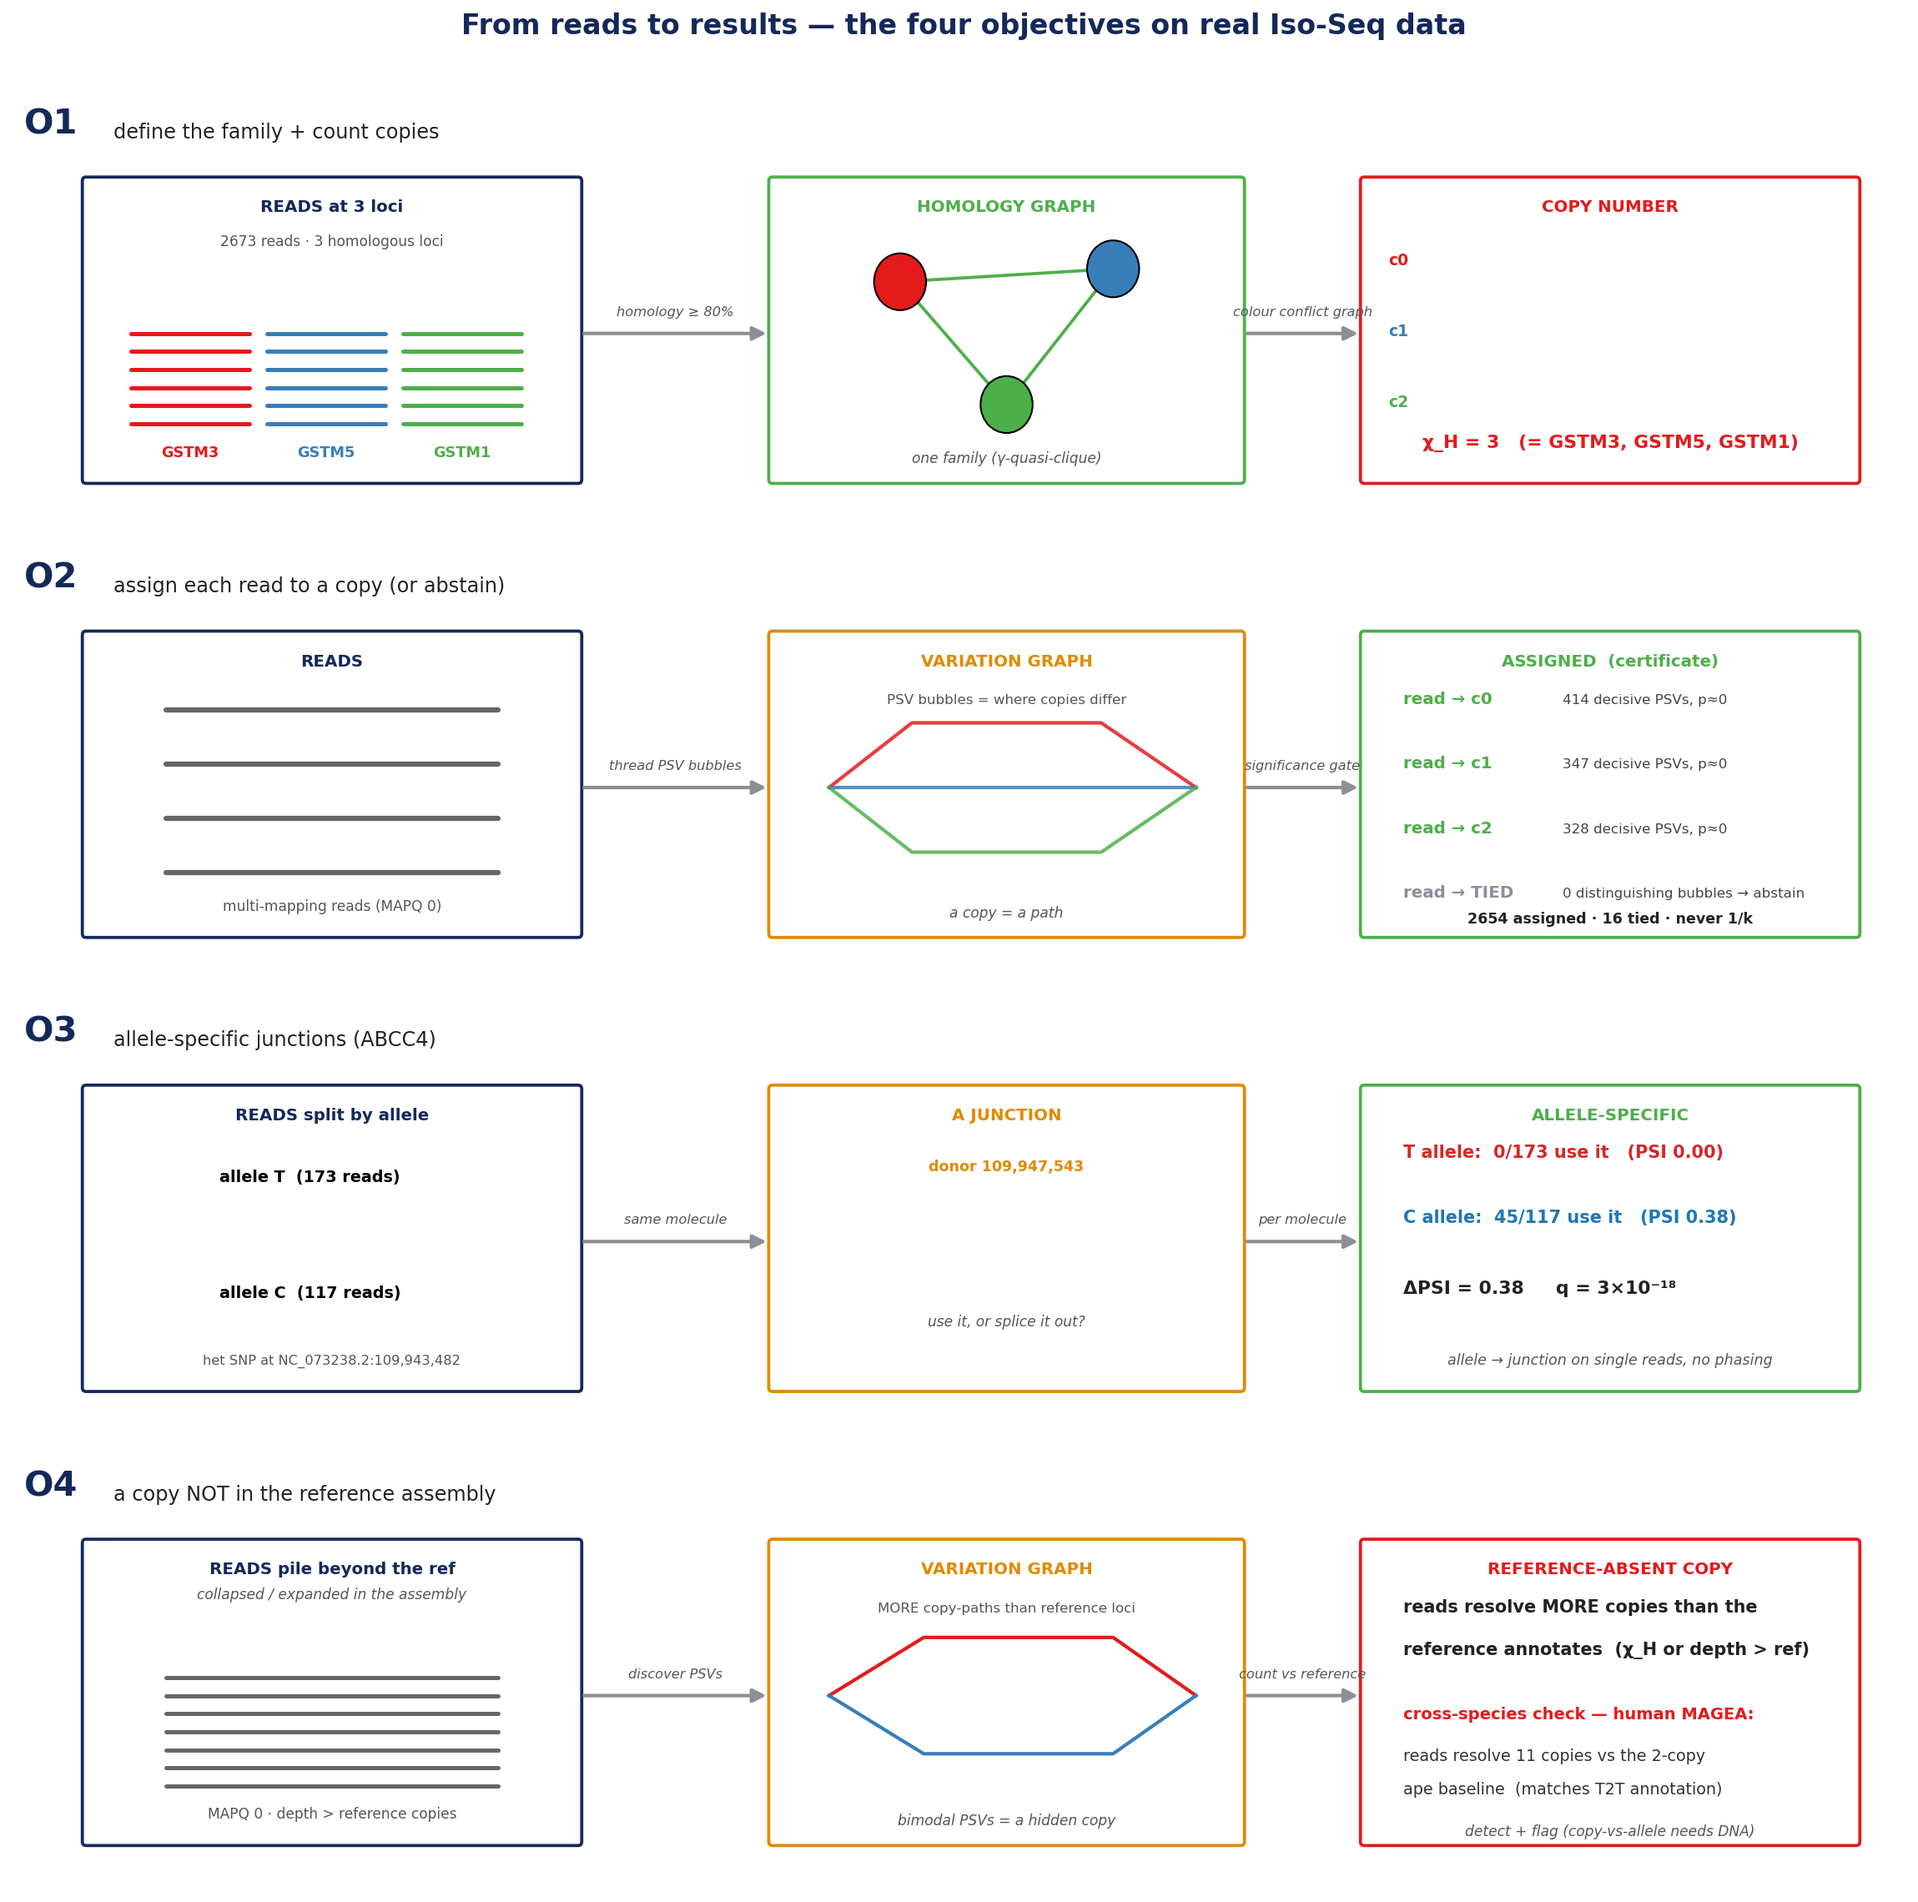
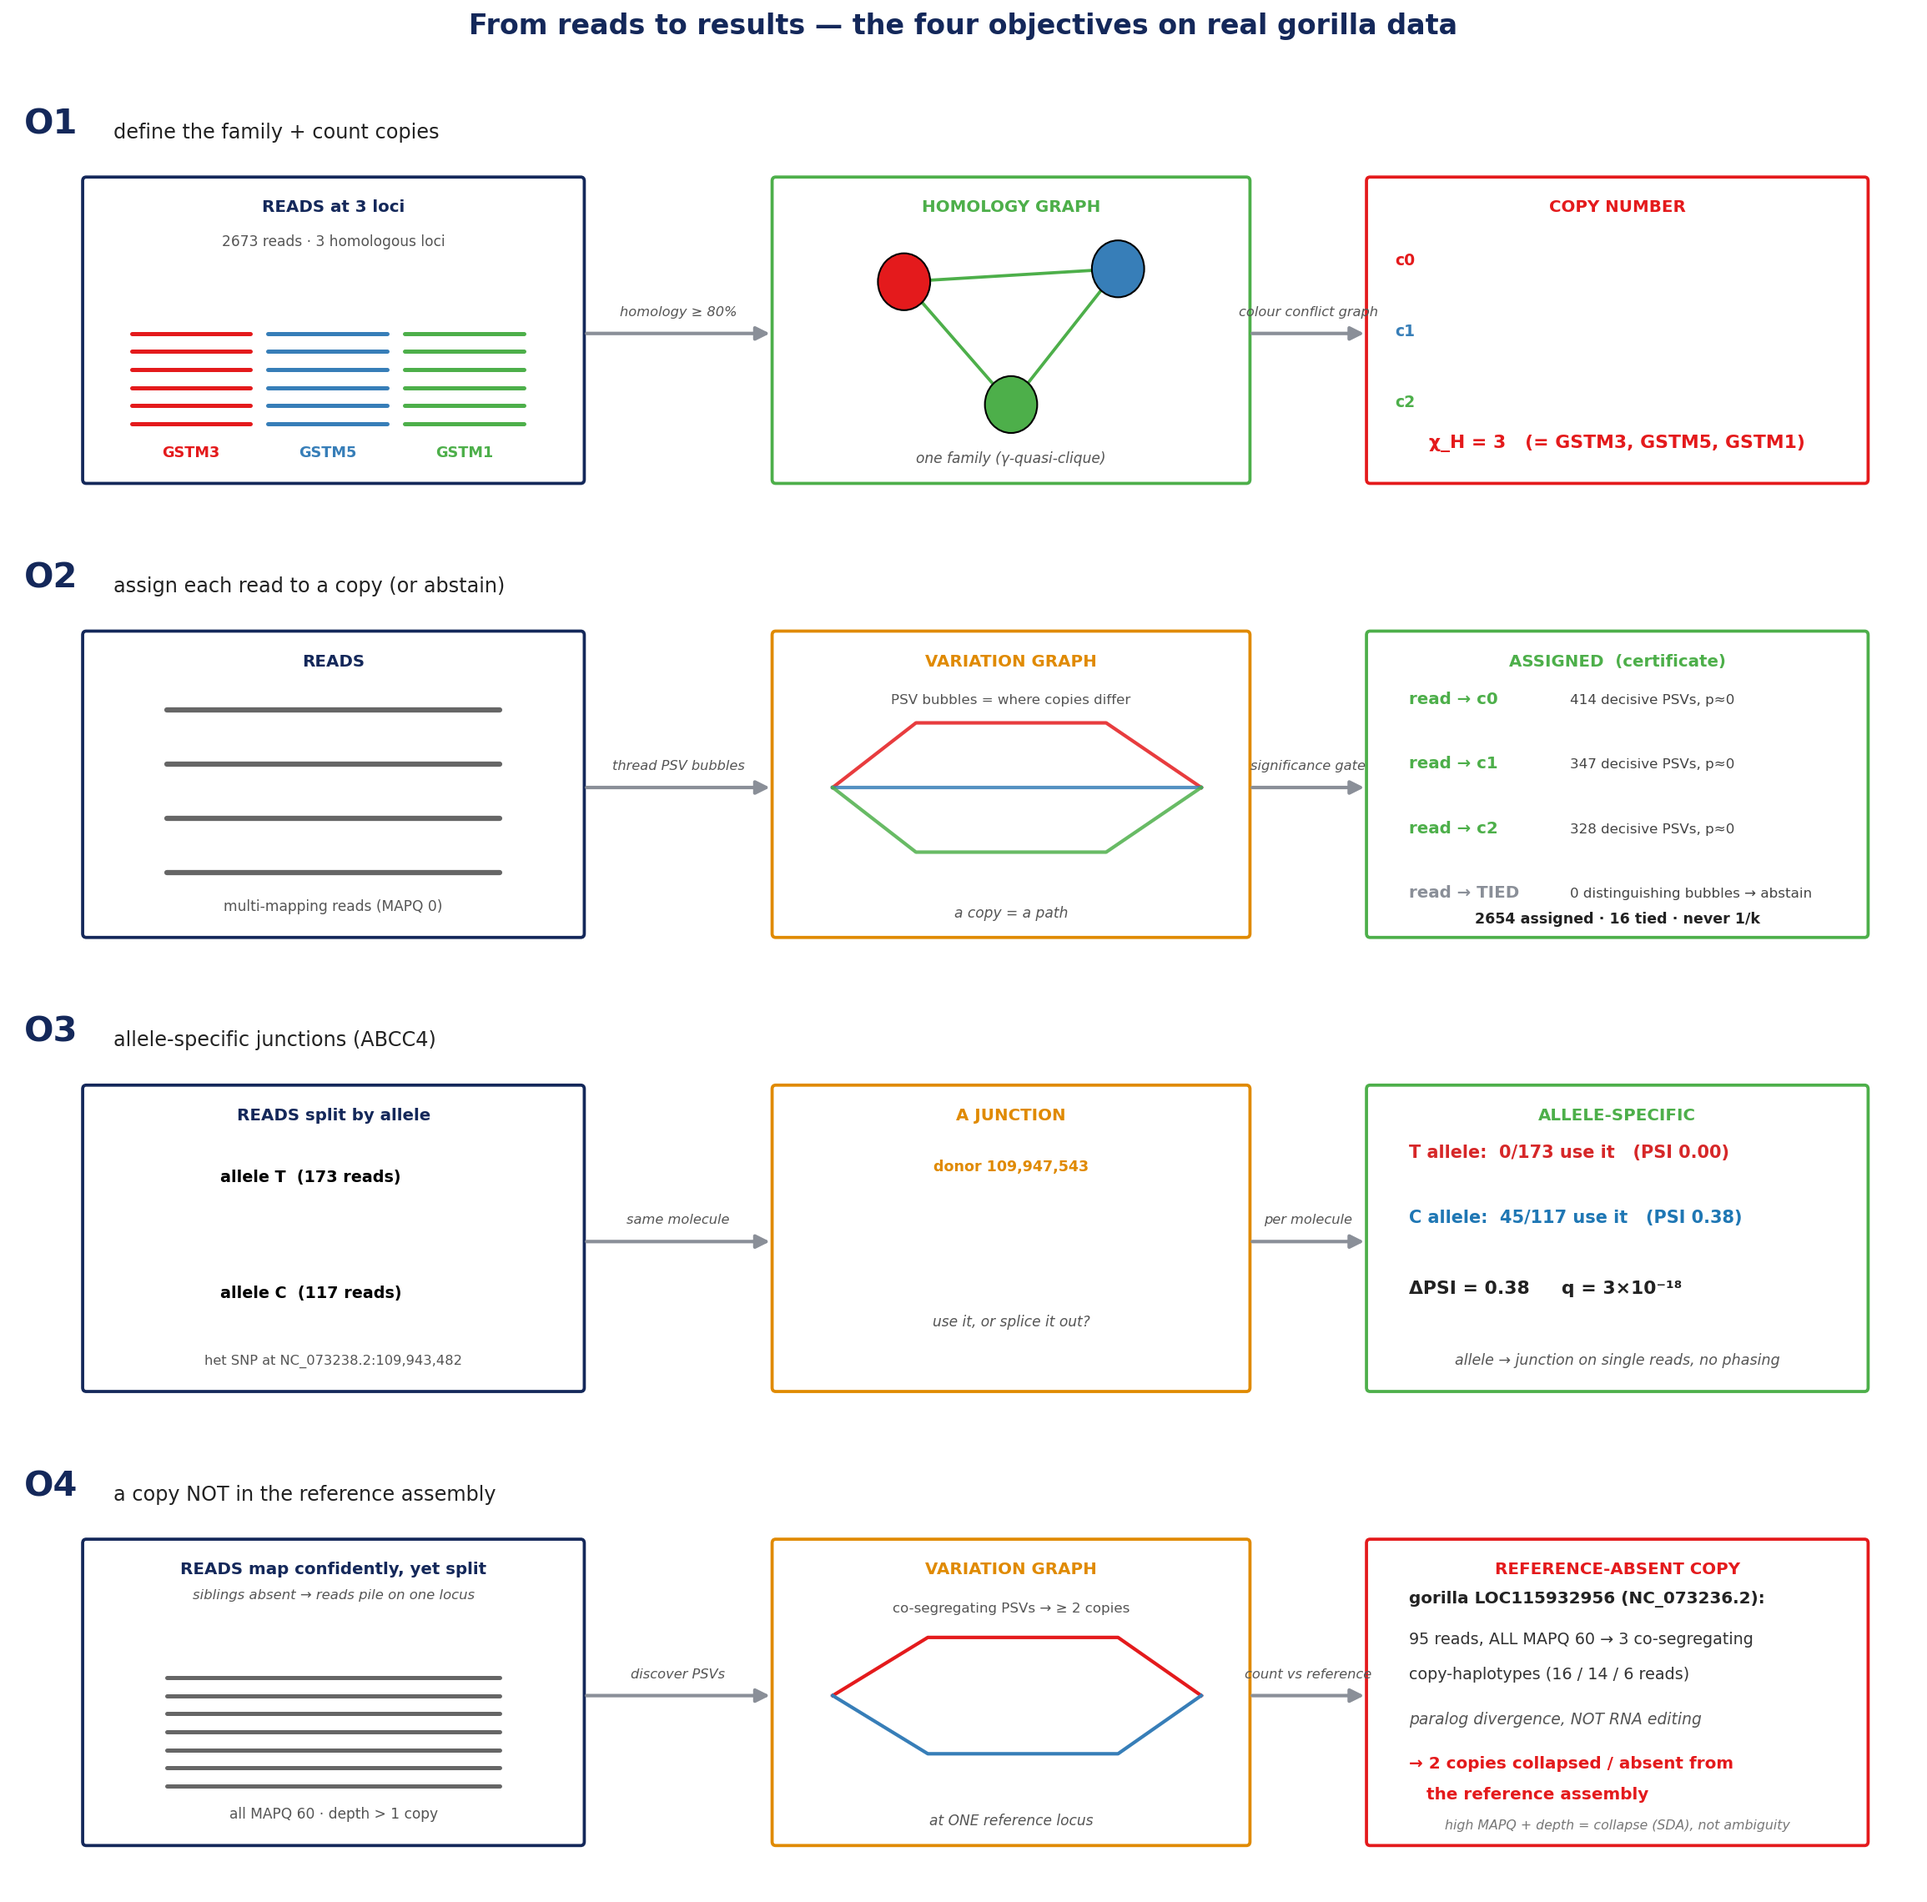
bench: O4 now a real within-gorilla reference-absent copy (LOC115932956)
Replace the cross-species-only O4 panel with a native gorilla example from
the hidden-collapse catalog (bench/hidden_collapse_hits.tsv, 306 hits):
NC_073236.2:139,047,584-139,177,611 (LOC115932956) — 95 reads ALL at MAPQ 60
yet splitting into 3 co-segregating copy-haplotypes (16/14/6) across 46
co-segregating PSV columns, paralog-divergence base spectrum (not RNA editing)
=> 2 copies collapsed/absent from the assembly. Also corrects the earlier
"MAPQ 0" framing: a reference-absent copy is a HIGH-MAPQ depth excess (SDA
signal), not MAPQ-0 ambiguity. Cross-species MAGEA kept as corroboration.
Reproduce: hidden_collapse_evidence.py --region NC_073236.2:139047584-139177611

Claude-Session: https://claude.ai/code/session_01RsF6nRZF2NWbpa4zQ83idT

diff --git a/bench/make_objectives_flow.py b/bench/make_objectives_flow.py
@@ -154,10 +154,10 @@ def build():
     ax = axes[3]
     ax.text(0.1, 3.05, "O4", fontsize=20, weight="bold", color=NAVY)
     ax.text(0.85, 3.06, "a copy NOT in the reference assembly", fontsize=11.5, color=DARK, va="center")
-    stage(ax, XA, 0.35, WA, 2.35, "READS pile beyond the ref", NAVY)
+    stage(ax, XA, 0.35, WA, 2.35, "READS map confidently, yet split", NAVY)
     pileup(ax, XA + 2.1, 0.8, 7, "#666", w=1.4)
-    ax.text(XA + 2.1, 0.55, "MAPQ 0 · depth > reference copies", ha="center", fontsize=8.2, color="#555")
-    ax.text(XA + 2.1, 2.25, "collapsed / expanded in the assembly", ha="center", fontsize=8.2, color="#555", style="italic")
+    ax.text(XA + 2.1, 0.55, "all MAPQ 60 · depth > 1 copy", ha="center", fontsize=8.2, color="#555")
+    ax.text(XA + 2.1, 2.25, "siblings absent → reads pile on one locus", ha="center", fontsize=7.9, color="#555", style="italic")
     arrow(ax, XA + WA, XB, 1.5, "discover PSVs")
     stage(ax, XB, 0.35, WB, 2.35, "VARIATION GRAPH", ORANGE)
     sy = 1.5; sx0 = XB + 0.5; sx1 = XB + 3.6
@@ -167,18 +167,19 @@ def build():
         ax.add_patch(Circle((x, sy - 0.45), 0.13, fc=BLUE, ec="k", lw=0.6))
     ax.plot([sx0, XB + 1.3, XB + 2.1, XB + 2.9, sx1], [sy, sy + .45, sy + .45, sy + .45, sy], color=RED, lw=2)
     ax.plot([sx0, XB + 1.3, XB + 2.1, XB + 2.9, sx1], [sy, sy - .45, sy - .45, sy - .45, sy], color=BLUE, lw=2)
-    ax.text(XB + WB / 2, 2.15, "MORE copy-paths than reference loci", ha="center", fontsize=8, color="#555")
-    ax.text(XB + WB / 2, 0.5, "bimodal PSVs = a hidden copy", ha="center", fontsize=8.2, style="italic", color="#555")
+    ax.text(XB + WB / 2, 2.15, "co-segregating PSVs → ≥ 2 copies", ha="center", fontsize=8, color="#555")
+    ax.text(XB + WB / 2, 0.5, "at ONE reference locus", ha="center", fontsize=8.2, style="italic", color="#555")
     arrow(ax, XB + WB, XC, 1.5, "count vs reference")
     stage(ax, XC, 0.35, WC, 2.35, "REFERENCE-ABSENT COPY", RED)
-    ax.text(XC + 0.35, 2.15, "reads resolve MORE copies than the", fontsize=10, weight="bold", color=DARK)
-    ax.text(XC + 0.35, 1.82, "reference annotates  (χ_H or depth > ref)", fontsize=10, weight="bold", color=DARK)
-    ax.text(XC + 0.35, 1.32, "cross-species check — human MAGEA:", fontsize=9.4, weight="bold", color=RED)
-    ax.text(XC + 0.35, 1.00, "reads resolve 11 copies vs the 2-copy", fontsize=9.2, color="#333")
-    ax.text(XC + 0.35, 0.74, "ape baseline  (matches T2T annotation)", fontsize=9.2, color="#333")
-    ax.text(XC + WC / 2, 0.42, "detect + flag (copy-vs-allele needs DNA)", ha="center", fontsize=8.2, style="italic", color="#555")
+    ax.text(XC + 0.35, 2.22, "gorilla LOC115932956 (NC_073236.2):", fontsize=9.6, weight="bold", color=DARK)
+    ax.text(XC + 0.35, 1.90, "95 reads, ALL MAPQ 60 → 3 co-segregating", fontsize=9.2, color="#333")
+    ax.text(XC + 0.35, 1.63, "copy-haplotypes (16 / 14 / 6 reads)", fontsize=9.2, color="#333")
+    ax.text(XC + 0.35, 1.28, "paralog divergence, NOT RNA editing", fontsize=9.0, color="#555", style="italic")
+    ax.text(XC + 0.35, 0.94, "→ 2 copies collapsed / absent from", fontsize=9.6, weight="bold", color=RED)
+    ax.text(XC + 0.35, 0.70, "   the reference assembly", fontsize=9.6, weight="bold", color=RED)
+    ax.text(XC + WC / 2, 0.47, "high MAPQ + depth = collapse (SDA), not ambiguity", ha="center", fontsize=7.6, style="italic", color="#777")
 
-    fig.suptitle("From reads to results — the four objectives on real Iso-Seq data",
+    fig.suptitle("From reads to results — the four objectives on real gorilla data",
                  fontsize=16, weight="bold", color=NAVY, y=0.997)
     fig.tight_layout(rect=[0, 0, 1, 0.985], h_pad=1.6)
     p = os.path.join(OUT, "objectives_flow.png")

diff --git a/bench/OBJECTIVES_FLOW.md b/bench/OBJECTIVES_FLOW.md
@@ -31,11 +31,20 @@ allele-linked splicing with no phasing.
 asj --bam GGO_mm.bam --region NC_073238.2:109943482-109971515 --out abcc4   # asj.tsv; verified in asj_calls_verified.tsv
 ```
 
-**O4 — a copy not in the reference (cross-species check, human MAGEA).** When the reads resolve more copies
-than the reference annotates (χ_H or depth > reference), the surplus is a reference-absent / collapsed copy.
-Concrete corroboration: on human testis Iso-Seq the same method resolves **11 MAGEA copies** against the
-2-copy ape baseline, matching the T2T annotation (`HUMAN_CROSSSPECIES.md`). Detect-and-flag; separating a
-real extra *copy* from a heterozygous *allele* needs DNA / parental copy number.
+**O4 — a copy not in the reference (gorilla LOC115932956).** A reference-absent copy shows up as a
+*high-MAPQ* depth excess, **not** MAPQ-0 ambiguity: the sibling copies are missing from the assembly, so
+their reads pile onto the one present locus and map confidently (this is SDA's insight — collapses are
+detected by depth, not mapping quality). At NC_073236.2:139,047,584–139,177,611 the 95 reads are **all
+MAPQ 60** yet split into **3 co-segregating copy-haplotypes** (16 / 14 / 6 reads) across 46 co-segregating
+PSV columns, with a paralog-divergence base spectrum (mixed 12 substitution types, Ti:Tv ≈ 1.2) — not the
+A>G / T>C signature of RNA editing. So the reference collapsed 3 copies into 1 locus → 2 reference-absent
+copies. From the 306-hit catalog `bench/hidden_collapse_hits.tsv`; reproduce:
+```
+python bench/hidden_collapse_evidence.py --region NC_073236.2:139047584-139177611
+```
+Corroborated cross-species: the same method resolves 11 MAGEA copies in human vs the 2-copy ape baseline
+(`HUMAN_CROSSSPECIES.md`). Detect-and-flag; separating a real extra *copy* from a heterozygous *allele*
+needs DNA / parental copy number.
 
 ## The one-line story
 
